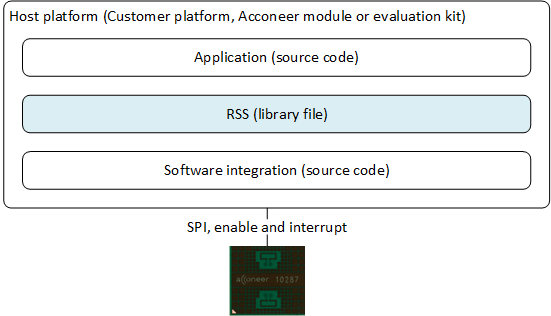
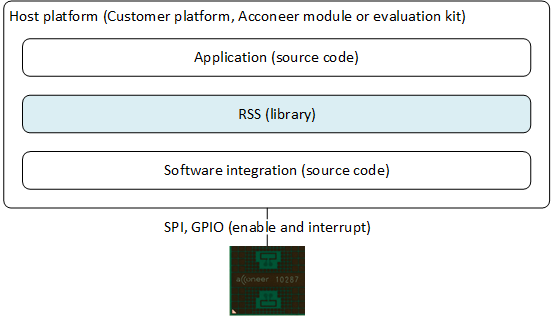
Update sensor introduction
Small updates to images and addition of sentence regarding
HAL user guide.

Changed region(s): [[0.2777, 0.6835, 0.6788, 0.7405], [0.4011, 0.3418, 0.6171, 0.3987]]

diff --git a/docs/sensor_introduction.rst b/docs/sensor_introduction.rst
@@ -112,7 +112,9 @@ Both RSS and Applications run on a host platform and Acconeer provides a softwar
 
 * For STM32 platforms we provide example integration files and instructions for how to set up a project in STM32CubeIDE.
 
-* Other ARM Cortex M0, M4 and M7 based platform can easily be used by writing a custom implantation of the HAL integration layer. A handful functions that use MCU specific driver functions for accessing timers, SPI and GPIO have to be implemented.
+* Other ARM Cortex M0, M4 and M7 based platform can easily be used by writing a custom implementation of the HAL integration layer. A handful functions that use MCU specific driver functions for accessing timers, SPI and GPIO have to be implemented.
+
+For more detailed information on how to implement the HAL integration layer used by RSS, there is a user guide available at `acconeer.com <https://acconeer.com>`__.
 
 Based on these deliveries it is possible for the customer to create their own integration layer for any platform that uses a supported processor architecture. The currently available products and corresponding software deliveries are listed in :numref:`fig_product_sw_offer`, refer to documentation for each specific product for further details.
 
@@ -123,7 +125,7 @@ Based on these deliveries it is possible for the customer to create their own in
 
     Products and software deliverables.
 
-More SDK variants are available at Acconeer.com, they all contain RSS, Software integration, and Example applications. The Module software image contain RSS, software integration, and Module server and can be downloaded from acconeer.com.
+At `acconeer.com <https://acconeer.com>`__, there are more SDK variants and they all contain RSS, Software integration, and Example applications. The Module software image contains RSS, software integration, and Module server.
 The module can be used in two different setups:
 
 * Stand-alone module: The module has got no dependency on external controllers. The application is customized to a specific use case by the customer and runs on the embedded MCU. The customers application is accessing the RSS API via a software interface.
@@ -169,7 +171,7 @@ The RSS provides output at two different levels, Service and Detector. The Servi
 
     Available Detectors and Services.
 
-Each Detector is built on top of a Service, i.e. you have the possibility to use our out-of-the-box Detectors or develop your own. To select the Service or Detector applicable for your use case it is recommended to use the Exploration tool (see Section `Acconeer tools`_) to observe the different outputs and understand what they represent, each Service and Detector also comes with its own user guide, which can be found at `acconeer.com <https://acconeer.com>`__.
+Each Detector is built on top of a Service, i.e. you have the possibility to use our out-of-the-box Detectors or develop your own. To select the Service or Detector applicable for your use case it is recommended to use the Exploration tool (see Section `Acconeer tools`_) to observe the different outputs and understand what they represent. Each Service and Detector also comes with its own user guide, which can be found at `acconeer.com <https://acconeer.com>`__.
 
 At `developer.acconeer.com <https://developer.acconeer.com>`__, we have several movies showing demos where the Acconeer sensor is used in different use cases. Together with the demo movies, corresponding reference applications are available in our different SDKs at Acconeer developer site. These reference applications are written in C code and use our Services and Detectors, check them out to get inspiration on how to build your product with the Acconeer sensor.
 
@@ -707,6 +709,7 @@ Document history
     =========== ====================================== ======= ============
     Author      Comments                               Version Date
     =========== ====================================== ======= ============
+    Acconeer AB Minor fixes.                           2.4     2020-05-27
     Acconeer AB Minor fixes.                           2.3     2020-03-13
     Acconeer AB Minor fixes.                           2.2     2020-02-27
     Acconeer AB Added power save mode Hibernate.       2.1     2020-01-17
